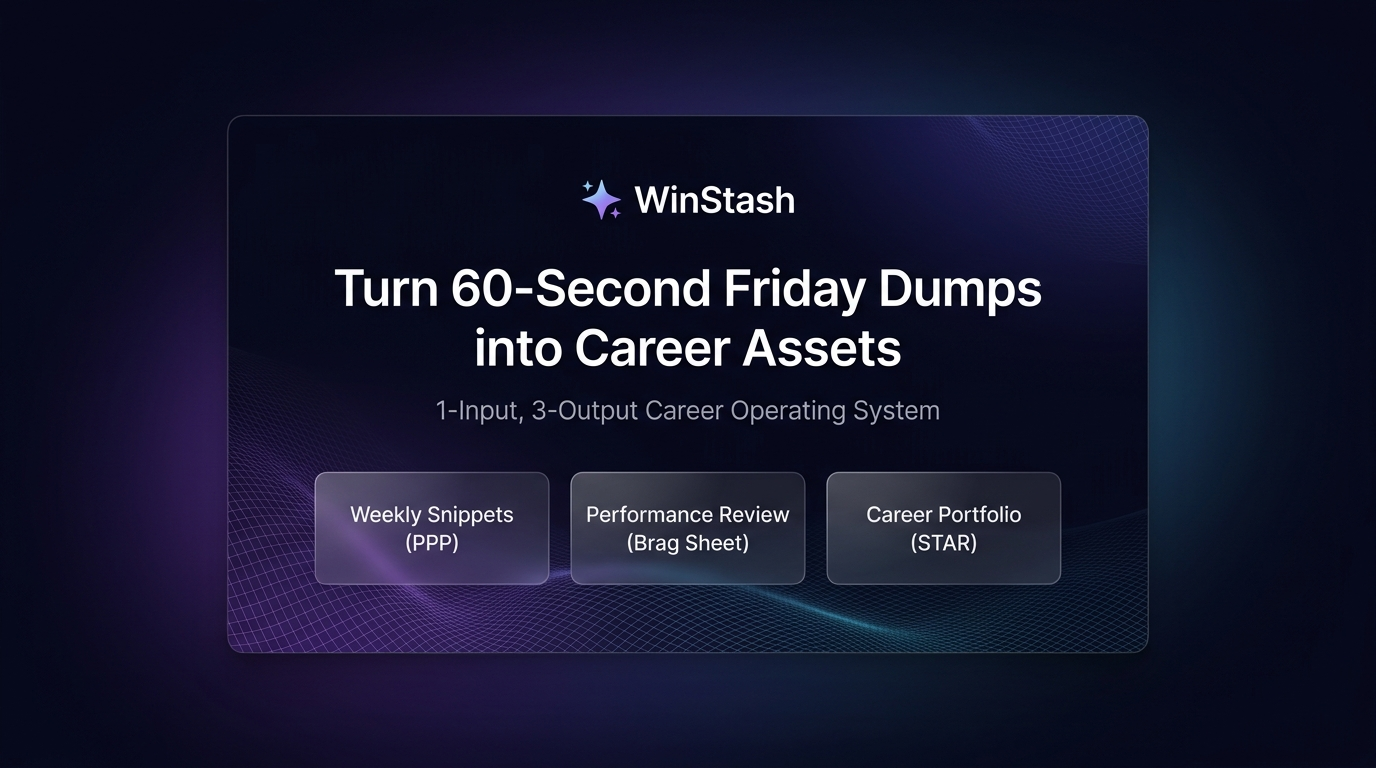
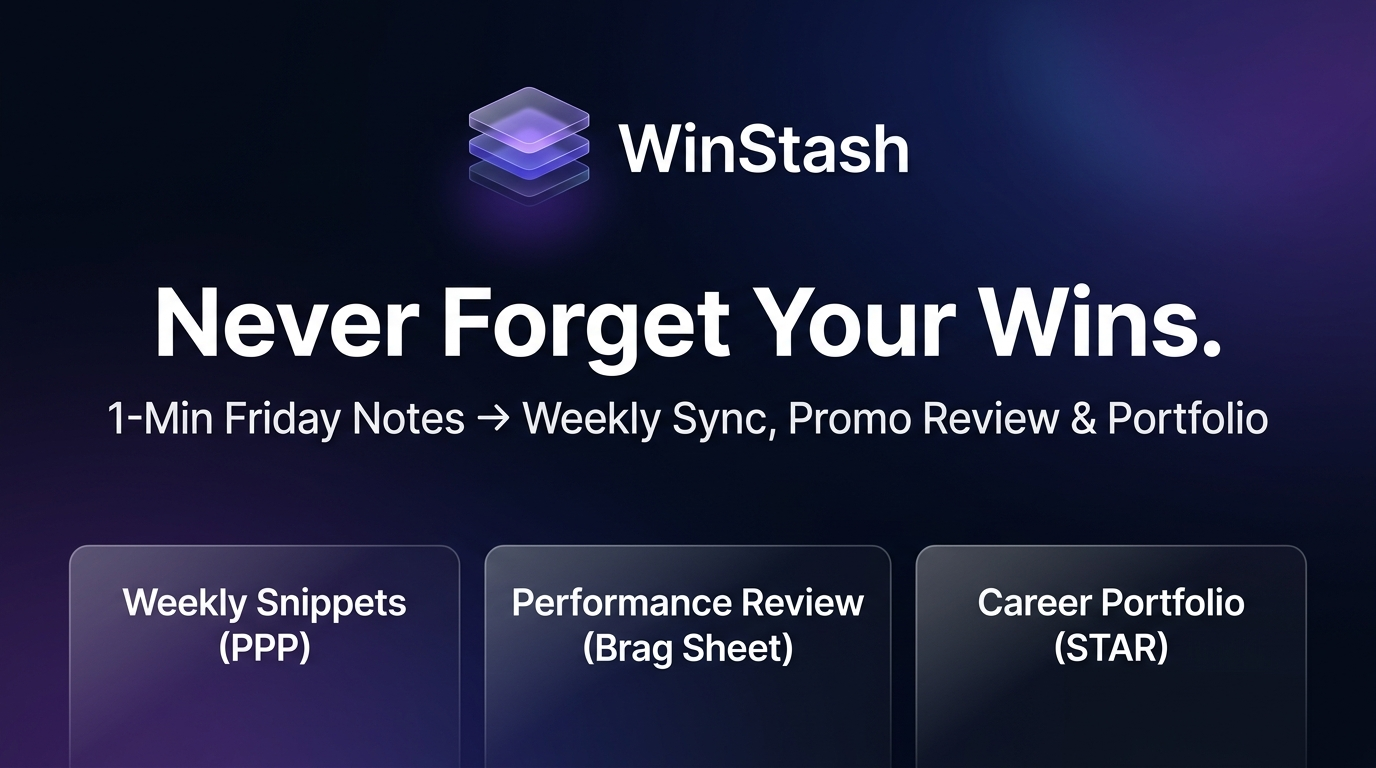
feat(branding): Elevate brand identity with 3-tier vault emblem and benefit-driven slogans

diff --git a/app/layout.tsx b/app/layout.tsx
@@ -15,9 +15,9 @@ const geistMono = Geist_Mono({
 
 export const metadata: Metadata = {
   metadataBase: new URL("https://winstash.xyz"),
-  title: "WinStash - AI Career Memory for Everything You Do",
+  title: "WinStash - Never Forget Your Wins | 1-Min Friday Notes to Career Assets",
   description:
-    "Never lose track of what you achieved. Dump 1 minute on Friday. WinStash automatically turns raw work notes into manager-ready weekly updates, promotion reviews, and career portfolios.",
+    "Turn 1-minute Friday notes into manager-ready weekly syncs, promotion brag sheets, and career portfolios. Never forget what you shipped.",
   verification: {
     google: "qKa_dC23HOY2U3XVvOP3rdC4nyvltfy_dgjghEXxKPQ",
   },
@@ -27,9 +27,9 @@ export const metadata: Metadata = {
     apple: "/icon.svg",
   },
   openGraph: {
-    title: "WinStash - Turn 60-Second Friday Dumps into Career Assets",
+    title: "WinStash - Never Forget Your Wins",
     description:
-      "1-Input, 3-Output Career Operating System. Turn raw weekly notes into manager-ready weekly updates, promotion reviews, and career portfolios.",
+      "1-Min Friday Notes → Weekly Sync, Promo Review & Portfolio. Write rough notes on Friday, auto-fill your career assets.",
     url: "https://winstash.xyz",
     siteName: "WinStash",
     images: [
@@ -37,7 +37,7 @@ export const metadata: Metadata = {
         url: "/og-image.png",
         width: 1200,
         height: 630,
-        alt: "WinStash - 1-Input, 3-Output Career Operating System",
+        alt: "WinStash - Never Forget Your Wins | 1-Min Friday Notes → Weekly Sync, Promo Review & Portfolio",
       },
     ],
     locale: "en_US",
@@ -45,9 +45,9 @@ export const metadata: Metadata = {
   },
   twitter: {
     card: "summary_large_image",
-    title: "WinStash - Turn 60-Second Friday Dumps into Career Assets",
+    title: "WinStash - Never Forget Your Wins",
     description:
-      "1-Input, 3-Output Career Operating System. Turn raw weekly notes into manager-ready weekly updates, promotion reviews, and career portfolios.",
+      "1-Min Friday Notes → Weekly Sync, Promo Review & Portfolio. Write rough notes on Friday, auto-fill your career assets.",
     images: ["/og-image.png"],
   },
 };

diff --git a/components/en/HeaderEn.tsx b/components/en/HeaderEn.tsx
@@ -1,7 +1,7 @@
 "use client";
 
 
-import { Sparkles, Settings, Briefcase, LogOut, MessageSquarePlus } from "lucide-react";
+import { Layers, Settings, Briefcase, LogOut, MessageSquarePlus, Sparkles } from "lucide-react";
 import { useAuth } from "@/context/AuthContext";
 import { CreditStatus } from "@/lib/creditService";
 import { isAdminEmail } from "@/lib/adminConfig";
@@ -23,7 +23,7 @@ export function HeaderEn({ onOpenSettings, onOpenFeedback, recordCount, creditSt
         {/* Logo and Brand */}
         <div className="flex items-center gap-3">
           <div className="w-10 h-10 rounded-xl bg-gradient-to-tr from-indigo-600 via-indigo-500 to-violet-500 flex items-center justify-center text-white shadow-md shadow-indigo-500/20">
-            <Sparkles className="w-5 h-5 animate-pulse" />
+            <Layers className="w-5 h-5 text-white" />
           </div>
           <div>
             <div className="flex items-center gap-2">
@@ -31,11 +31,11 @@ export function HeaderEn({ onOpenSettings, onOpenFeedback, recordCount, creditSt
                 WinStash
               </span>
               <span className="text-[10px] font-semibold tracking-wide uppercase px-2 py-0.5 rounded-md bg-indigo-50 text-indigo-700 dark:bg-indigo-950/70 dark:text-indigo-300 border border-indigo-200 dark:border-indigo-800/60">
-                3-Way Career OS
+                Career Memory Vault
               </span>
             </div>
             <p className="text-xs text-zinc-500 dark:text-zinc-400 hidden sm:block">
-              1-Min Friday Log → Weekly Snippets · Performance Review · Career Portfolio
+              1-Min Friday Notes → Weekly Sync, Promo Review & Portfolio
             </p>
           </div>
         </div>

diff --git a/app/page.tsx b/app/page.tsx
@@ -356,8 +356,8 @@ export default function Home() {
         {/* Hero Section */}
         <section className="text-center space-y-3 max-w-2xl mx-auto pt-2">
           <div className="inline-flex items-center gap-2 px-3 py-1 rounded-full bg-indigo-50 dark:bg-indigo-950/70 border border-indigo-200/60 dark:border-indigo-800 text-indigo-700 dark:text-indigo-300 text-xs font-semibold">
-            <Sparkles className="w-3.5 h-3.5" />
-            <span>1-Input, 3-Output Career Operating System</span>
+            <Layers className="w-3.5 h-3.5" />
+            <span>Never Forget Your Wins · Career Memory Vault</span>
           </div>
 
           <h1 className="text-2xl sm:text-4xl font-extrabold text-zinc-900 dark:text-zinc-50 tracking-tight leading-tight text-balance">
@@ -430,7 +430,7 @@ export default function Home() {
 
       {/* Footer */}
       <footer className="w-full border-t border-zinc-200 dark:border-zinc-800 py-6 mt-12 text-center text-xs text-zinc-400 flex flex-col sm:flex-row items-center justify-center gap-2 sm:gap-4 px-4">
-        <p>© 2026 WinStash. 1-Input, 3-Output Career Operating System for Global Builders.</p>
+        <p>© 2026 WinStash. Never forget your wins. 1-Min Friday notes into career assets.</p>
         <button
           onClick={() => setIsFeedbackOpen(true)}
           className="hover:text-indigo-600 dark:hover:text-indigo-400 underline underline-offset-4 cursor-pointer font-medium"

diff --git a/components/en/LandingPageEn.tsx b/components/en/LandingPageEn.tsx
@@ -245,13 +245,13 @@ export function LandingPageEn() {
         <div className="max-w-6xl mx-auto px-4 sm:px-6 h-16 flex items-center justify-between">
           <div className="flex items-center gap-3">
             <div className="w-10 h-10 rounded-xl bg-gradient-to-tr from-indigo-600 via-indigo-500 to-violet-500 flex items-center justify-center text-white shadow-md shadow-indigo-500/20">
-              <Sparkles className="w-5 h-5 animate-pulse" />
+              <Layers className="w-5 h-5 text-white" />
             </div>
             <div>
               <div className="flex items-center gap-2">
                 <span className="font-extrabold text-lg tracking-tight">WinStash</span>
                 <span className="text-[10px] font-semibold tracking-wide uppercase px-2 py-0.5 rounded-md bg-indigo-50 text-indigo-700 dark:bg-indigo-950/70 dark:text-indigo-300 border border-indigo-200 dark:border-indigo-800/60">
-                  3-Way Career OS
+                  Career Memory Vault
                 </span>
               </div>
             </div>
